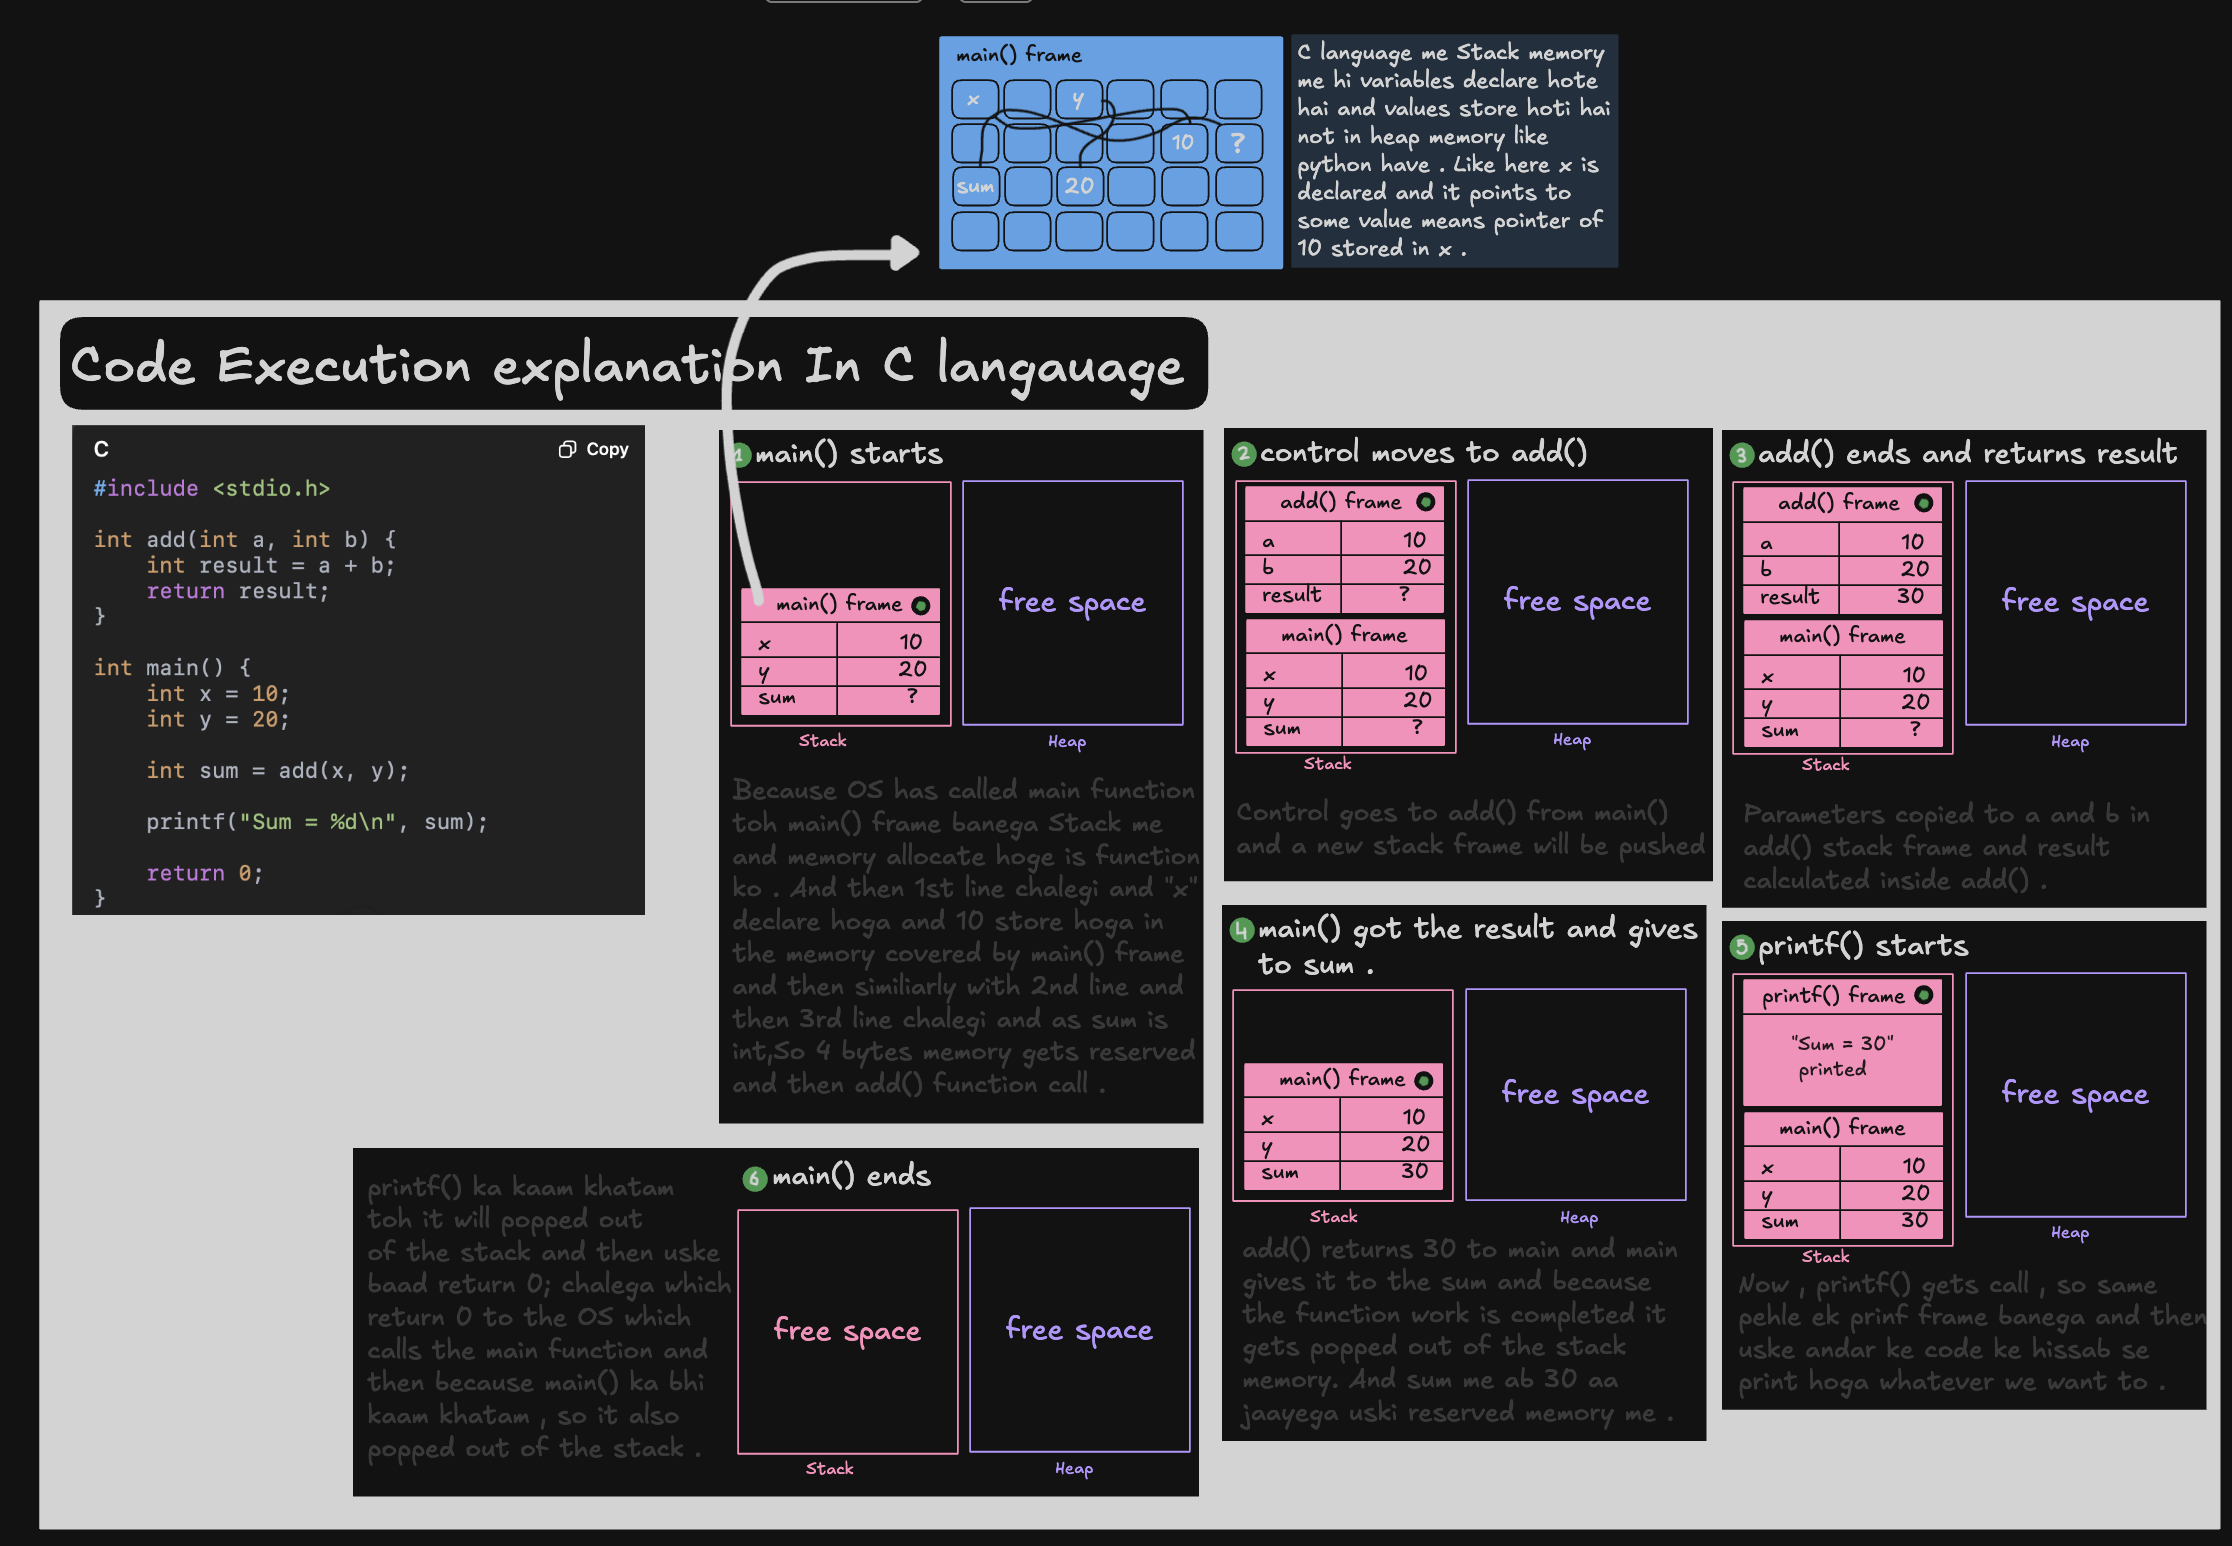
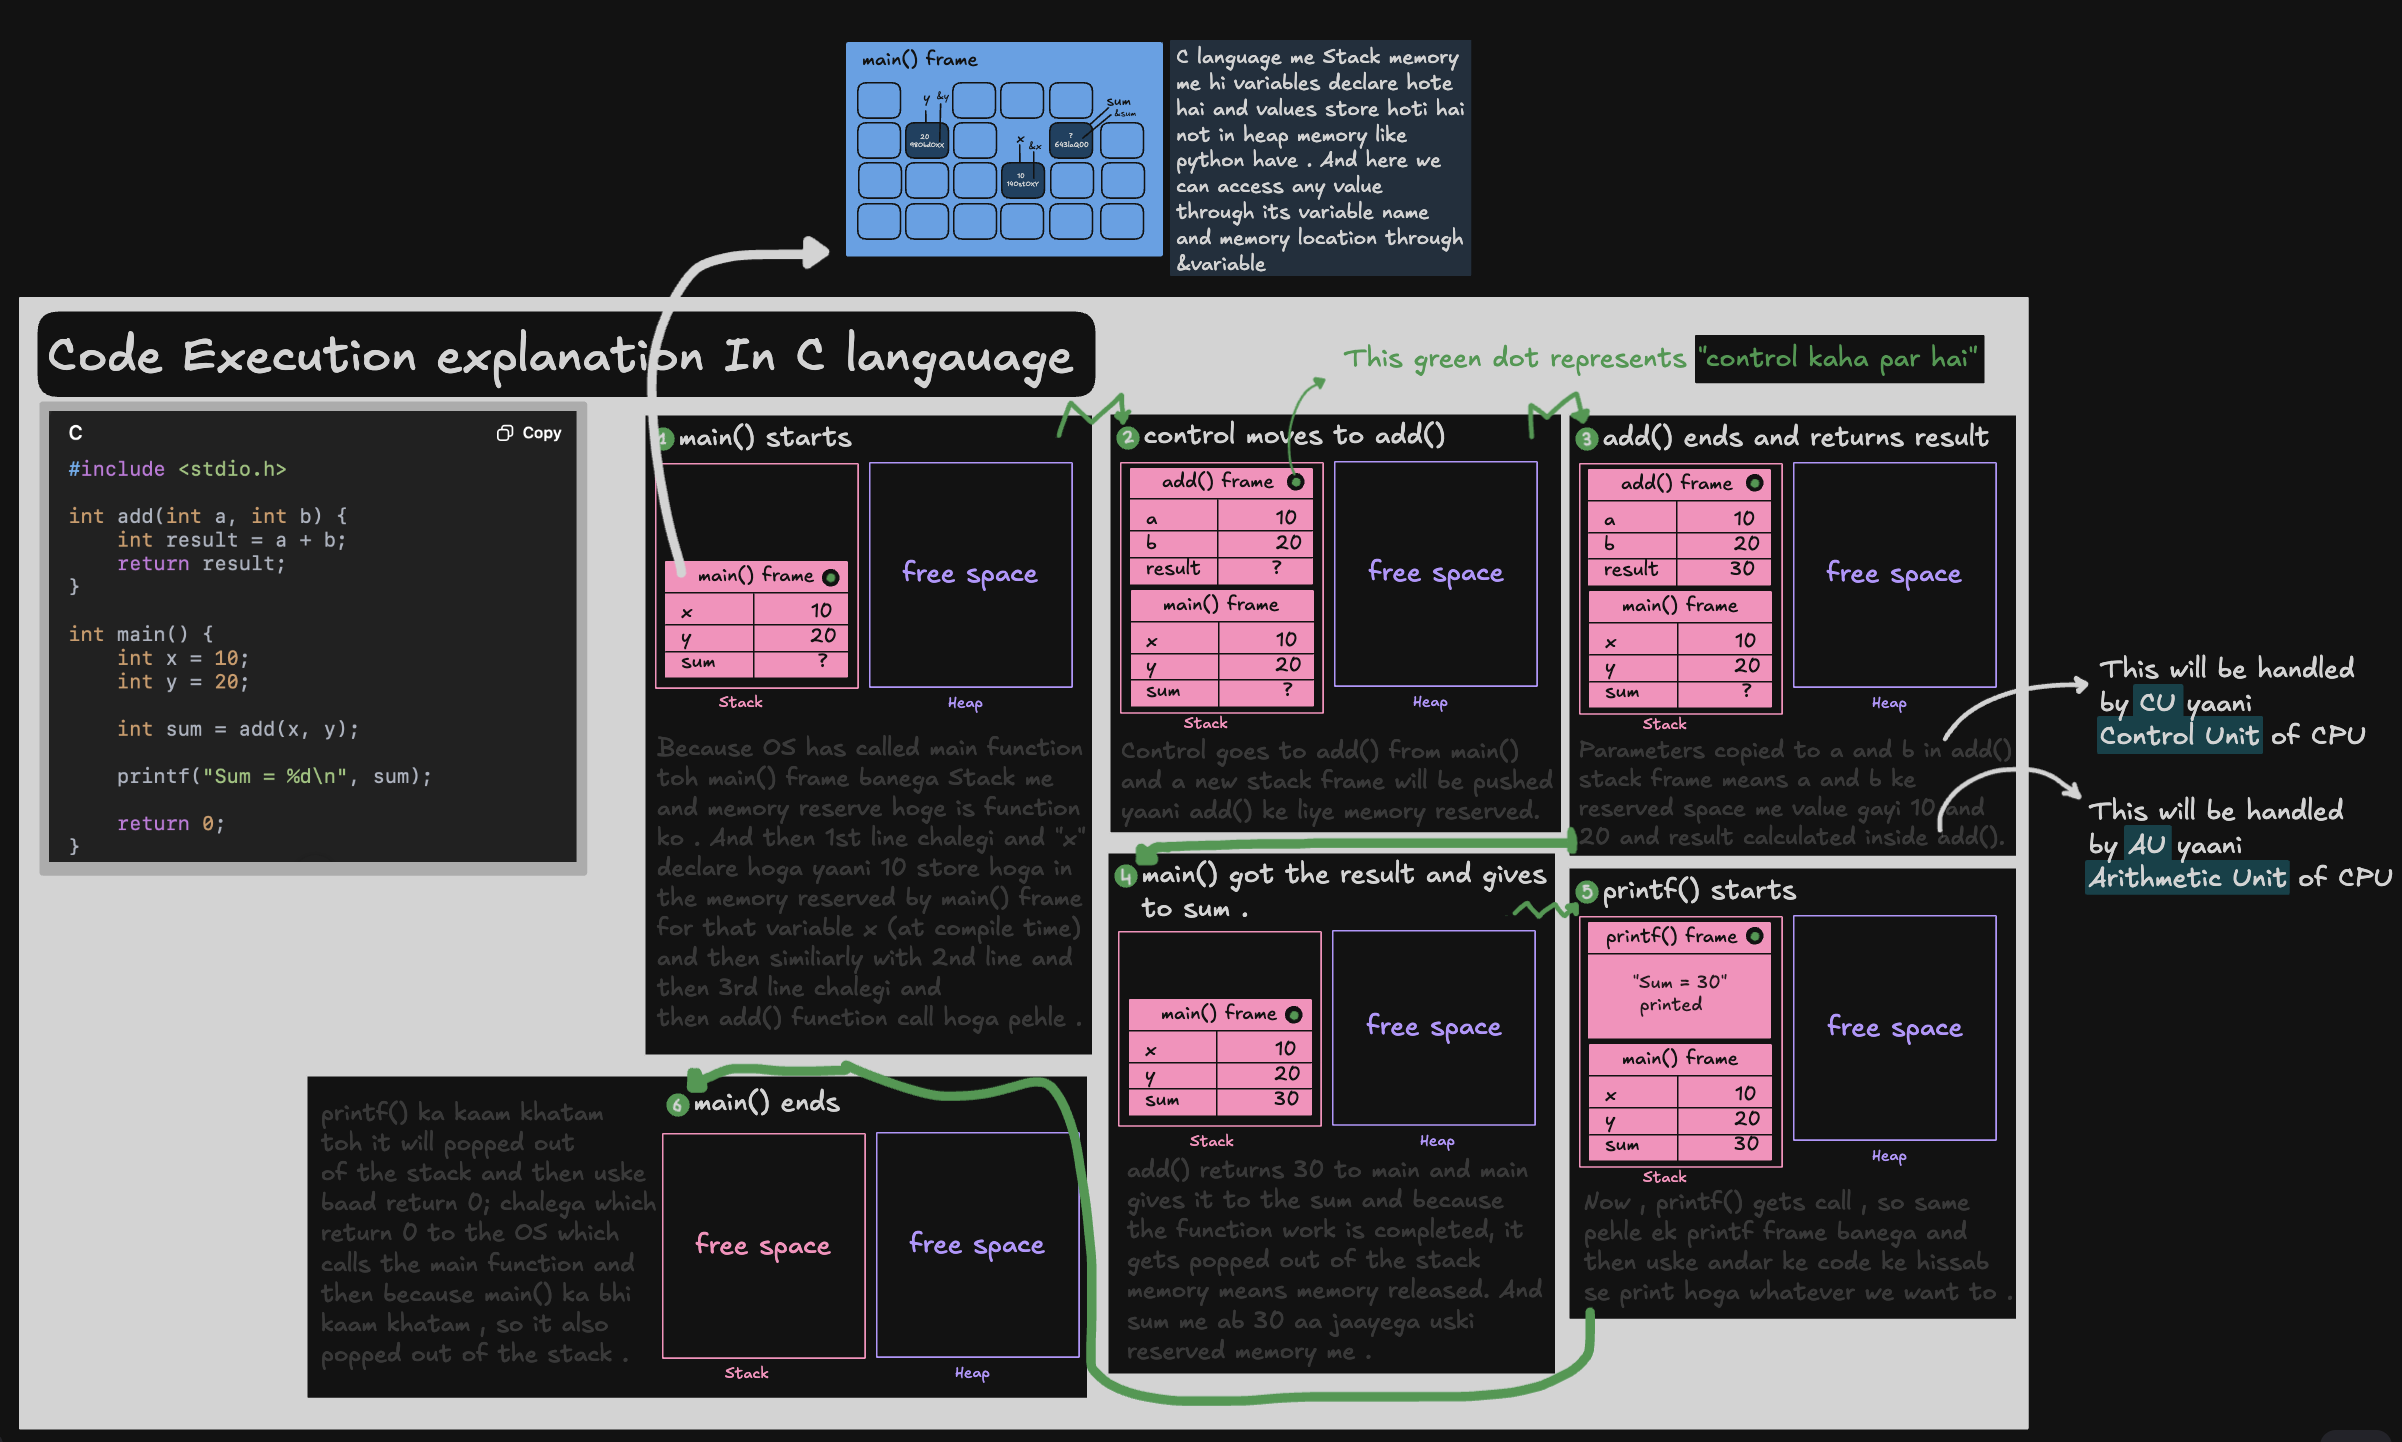
function half done (modified)

diff --git a/102.md b/102.md
@@ -34,29 +34,24 @@ x se hum memory me padi hui "value" ko access kar sakte hai . That's why we use 
 
 8. Uske baad chalti hai last line  return 0;  which return 0 to the OS and ab main function ka bhi kaam khatam , every line execute ho gayi hai , toh ab main() function bhi stack se pop out ho jaata hai and this is how code is executed in C language .
 
+9. [Example of execution of program visually](/Images/101-46.png)
 
 
 # Important point
-When we run our compiled code yaani runtime par kya hota hai ki , sabse pehle OS RAM me code ki pura machine code load karta hai and then wo code 2 parts me divide hota hai , 1st ki function ke andar likha hua code and 2nd is function ke bahar likha hua code , dono ki type ke code ka execution alag types se hota hai , but both in two steps :
-1. RAM memory allocation
-2. Code Execution
+In a C program , when we run our compiled code yaani runtime par kya hota hai ki , sabse pehle OS RAM me code ki pura machine code load karta hai and Global code and Function dono ka execution do alag types se hota hai :
+
+1. Global Code Execution
+Jitne bhi global variables hote hai , Jaise hi hum code load karte hai RAM me waise hi RAM me global variables ke liye kuch memory reserve ho jaati hai(compile time par hi decide ho jaata hai memory layout kaisa banega RAM me when we load this script file into RAM, based on the variables used in that program like int a = 5 means compile time par ek instruction add ho jaayegi machine code me ki RAM me 4bytes ki memory reserve kar lena for variable a ) , yaani RAM me global variables ke liye memory layout ban jaayega but abhi tak un reserved memory blocks me koi value nahi gayi hai . Now , ab kya hota hai ki CPU me jaise hi ek line of global code jaata hai toh wo sabse pehle store hota hai MU yaani CPU ki Memory Unit me and then uske baad wo jaata hai CU yaani Control Unit ke paas , control unit ka kaam hota hai us line of code ko samajhna , toh wo us global line of code ko understand karta hai and agar toh wo operation function call yaa variable declaration kar raha hai toh yeh kaam toh CU khud hi kar deta hai yaani like variable ko declare kar dega yaani jo space us global variable ke liye reserve hui thi starting me RAM me usme CU value daalne kaa kaam kar deta hai yaa agar koi function call hai toh wo bhi CU hi kar deta hai, But agar operation logical hai yaani us instruction yaa line of code me koi operator + , - , * etc.. use ho raha hai toh CU us kaam ko AU yaani Arithmetic Unit ko de deta hai and then AU us operation yaa us calculation ko karke , agar result ko kahi emmory me daalna hai toh daal deta hai nahi toh bus result return kar deta hai . This is how Global code yaa Global instruction ka execution hota hai 
+Cleanup - Toh global variable throughout the program execution RAM me memory liye rehta hai yaani from the start of the code script like from that #include to return 0; of main() function yeh memory liye rehta hai and when the whole program execution finishes up then its memory gets released means erased from the RAM and it is because yeh ek global variable hai kahi bhi access kiya jaa sakta hai , toh throughout the code hume ise rakhna padta hai , hum ise beech me delete nahi kar sakte hai .
 
 
-1. RAM memory allocation
-Is phase me kya hota hai , ki jitne bhi global variables(isi ko function ke bahar ka code kehte hai) hai , unki sabse pehle RAM me memory reserve hoti hai when we load our code in RAM, yaani sirf ek empty memory layout banta hai RAM me, jisme empty memory blocks reserve hote hai sirf global variables ko , abhi tak usme value nahi gayi hai un global variables ki , only space reserve hui hai. Remember, yaha local variables ka memory reservation nahi hota hai . (Local variables ek function ke andar hote hai and in variables ka memory reservation and value allocation real time me hota hai jab wo function ka code run hota hai line by line , will see in phase 2) . Intotal, RAM memory allocation me function ke bahar waale code which means global variables declaration yaa global code , unke liye RAM me memory reserve ho jaati hai code execution se pehle hi but local variable yaani function ke andar ka code ke liye memory allocation code execution se pehle nahi hota hai .
+2. Function Code Execution
+But when a function runs toh kya hota hai ki sabse pehle jab wo function call hoga toh sabse pehle real time me kuch memory area reserve hogi stack me for that function (ab kitna hoga that is calculated on compile time based on the variables present me that function) and then uske baad uske andar ka code run hoga and Using CU ek-ek karke jo reseved area tha function call hone par wo fill hota jaayega yaani value allocate hoti jaayegi, kyuki usi me us function ke local variables ki value jaati hai and agar koi line of code in that function calculation waala hai toh wo AU ke paas jaata hai and AU calculate and execute karta hai us line ko . Yaani isme code script RAM me load karte hi RAM me memory reserve nahi hoti hai like global variables do , isme real time me when function call happen then memory reserve hoti haia and then real time me when code runs line by line toh value allocation in that reserved memory and logical operations hote hai .
+Cleanup - Jaise hi function end hota hai , instantly memory cleanup ho jata hai yaani jo memory layout function ke call hone par reserved hua tha us function ke liye or us functions ke variables ke liye wo instantly release ho jaata hai stack memory se when function is completed . JO HUM PADH RAHE THE FUNCTION FRAME STACK ME AANE KA AND FUNCTION KE COMPLETE HONE PAR POPOUT KAR JAANE KA , USKA MATLAB YAHI HOTA HAI KI MEMORY RESERVE AND MEMORY RELEASE .
 
-2. Code Execution
-Is phase me ab jo machine code load hua tha wo instruction line by line CPU me jaate hai and execute hote hai but for a global variable or code it is different and for a function(yaani local variable) it is different . 
-
-Toh jab ek global variable declaration code chalta hai toh like int a = 5 {a is a global variable} . Toh yaha kya hoga CPU me ki sabse pehle MU yaani Memory Unit chalega and yeh line of code MU me store hoga and then uske baad CU yaani Control Unit chalega jo kya karta hai ki us line of code ka matlab samjhega and use do parts me classify karega ki : 1st Kya us code se variable declaration yaa Koi function call ho raha hai kya and 2nd is ki kya wo code se koi calculation ho rahi hai kya yaani kya us instruction me koi operator use hua hai kya and agar 1st Case hai toh CU khud hi us variable ko declare kar dega yaani memory allocate karke usme value daal dega(Local Variable Case) yaa RAM me reserved memory me value daal dega(Global Variable Case) but agar calculation yaani koi logical operation hue toh CU control de dega AU yaani Arithmetic-Unit ko , jo kya karega ki us calculation ko karke jo bhi result aayega wo return kar dega and this is how a global code ka execution takes place . Yaani, simply int a = 5 ko MU me store karo and then CU jo RAM me reserved memory "a" hai usme 5 daal dega .
-Cleanup - 
-
-But when a function runs toh kya hota hai ki sabse pehle jab wo function call hoga (toh kyuki compile time par hi based on the variable declared in it se decide ho jaata hai ki yeh function kitna khud ka memory area or space lega like agar ek function ke andar sirf yeh do lines hai int x = 5 and char y = 'a' toh 4bytes + 1bytes yaani 5bytes + some miselleneous area reserve hoga when this function call happens yeh decide ho jaata hai , compile time par hi  ) toh sabse pehle kuch memory area reserve hogi stack me and then uske baad uske andar ka code run hoga line by line let say code hai int f = 50; toh yeh code ese execute hoga ki kyuki yeh "f" ek local variable hai toh sabse pehle yeh line aayega MU me and then code aayega CU me and CU is code ko real time me execute karega yaani RAM me memory reserve karega and then usme 50 daal dega and agar koi line of code logical operation hoga toh wo operation jaayega CU se AU ke paas and then wo kar wo calculation karke uska result RAM me daal dega uski desired space me yaa return kar dega which ever needed . Yaani, simply when function is called then ek memory area reserve hoga for that function and then line by line code execute hoga and agar variable declaration ka code hoga like int t = 6 (local variables ka)  toh wo real time me memory reservation and value allocation hogi in that memory .
-Cleanup - 
-
-🟥 Left ----------------------------------------------------------------------------------------------------
-🟥 Left -----------------------------------------------------------------------------------------------------
-🟥 Left ---------------------- [See it visually](/Images/101-46.png) and [See it visually](/Images/101-52.png)
+What is a global variable and a local variable ?
+[See and understand it visually](/Images/101-52.png)
 
 This is how this code runs on CPU AND RAM LEVEL .
+
 ---------------------------------------------------------------------------------------------------------------------
